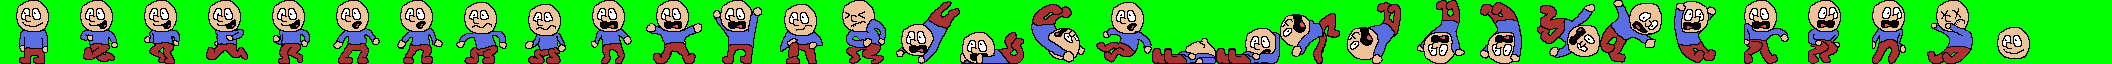
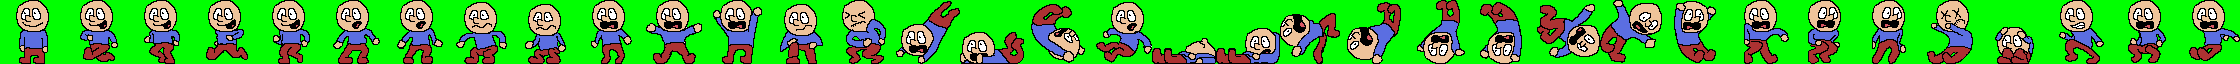
longjump!

diff --git a/src/lib/SPRITESHEETS.py b/src/lib/SPRITESHEETS.py
@@ -1,1 +1,1 @@
-SPRITESHEETS = {'redpantsguy.png': {'redpantsstand': ((0, 0), (64, 64)), 'redpantsrun0': ((64, 0), (64, 64)), 'redpantsrun2': ((192, 0), (64, 64)), 'redpantsrun1': ((128, 0), (64, 64)), 'redpantsrun3': ((256, 0), (64, 64)), 'redpantsslide0': ((320, 0), (64, 64)), 'redpantsslide1': ((384, 0), (64, 64)), 'redpantsjumpsquat0': ((448, 0), (64, 64)), 'redpantsjumpsquat1': ((512, 0), (64, 64)), 'redpantsjump0': ((576, 0), (64, 64)), 'redpantsjump1': ((640, 0), (64, 64)), 'redpantsjump2': ((704, 0), (64, 64)), 'redpantsland': ((768, 0), (64, 64)), 'redpantsdivestart': ((832, 0), (64, 64)), 'redpantsdive': ((896, 0), (64, 64)), 'redpantsdiveland': ((960, 0), (64, 64)), 'redpantsrollout': ((1024, 0), (64, 64)), 'redpantsbonk': ((1088, 0), (64, 64)), 'redpantsbonkland0': ((1152, 0), (64, 64)), 'redpantsbonkland1': ((1216, 0), (64, 64)), 'redpantsdiveflip0': ((1280, 0), (64, 64)), 'redpantsdiveflip1': ((1344, 0), (64, 64)), 'redpantsdiveflip2': ((1408, 0), (64, 64)), 'redpantsdiveflip3': ((1472, 0), (64, 64)), 'redpantsdiveflip4': ((1536, 0), (64, 64)), 'redpantsdiveflip5': ((1600, 0), (64, 64)), 'redpantsdiveflip6': ((1664, 0), (64, 64)), 'redpantswalljump0': ((1728, 0), (64, 64)), 'redpantswalljump1': ((1792, 0), (64, 64)), 'redpantswalljump2': ((1856, 0), (64, 64)), 'redpantsdead': ((1920, 0), (64, 64))}, 'actors.png': {'spike': ((0, 0), (32, 32)), 'bone0': ((32, 0), (32, 32)), 'bone1': ((64, 0), (32, 32)), 'zombie': ((96, 0), (48, 64)), 'skeleton0': ((144, 0), (48, 64)), 'zombie1': ((192, 0), (48, 64)), 'skeleton1': ((240, 0), (48, 64)), 'skeleton2': ((240, 64), (48, 64)), 'platform000': ((288, 0), (32, 32)), 'platform001': ((320, 0), (32, 32)), 'platform002': ((352, 0), (32, 32)), 'platform010': ((288, 32), (32, 32)), 'platform011': ((320, 32), (32, 32)), 'platform012': ((352, 32), (32, 32)), 'platform020': ((288, 64), (32, 32)), 'platform021': ((320, 64), (32, 32)), 'platform022': ((352, 64), (32, 32)), 'touched000': ((384, 0), (32, 32)), 'touched010': ((384, 32), (32, 32)), 'touched002': ((448, 0), (32, 32)), 'touched001': ((416, 0), (32, 32)), 'touched011': ((416, 32), (32, 32)), 'touched012': ((448, 32), (32, 32)), 'touched020': ((384, 64), (32, 32)), 'touched021': ((416, 64), (32, 32)), 'touched022': ((448, 64), (32, 32))}}
+SPRITESHEETS = {'redpantsguy.png': {'redpantsstand': ((0, 0), (64, 64)), 'redpantsrun0': ((64, 0), (64, 64)), 'redpantsrun2': ((192, 0), (64, 64)), 'redpantsrun1': ((128, 0), (64, 64)), 'redpantsrun3': ((256, 0), (64, 64)), 'redpantsslide0': ((320, 0), (64, 64)), 'redpantsslide1': ((384, 0), (64, 64)), 'redpantsjumpsquat0': ((448, 0), (64, 64)), 'redpantsjumpsquat1': ((512, 0), (64, 64)), 'redpantsjump0': ((576, 0), (64, 64)), 'redpantsjump1': ((640, 0), (64, 64)), 'redpantsjump2': ((704, 0), (64, 64)), 'redpantsland': ((768, 0), (64, 64)), 'redpantsdivestart': ((832, 0), (64, 64)), 'redpantsdive': ((896, 0), (64, 64)), 'redpantsdiveland': ((960, 0), (64, 64)), 'redpantsrollout': ((1024, 0), (64, 64)), 'redpantsbonk': ((1088, 0), (64, 64)), 'redpantsbonkland0': ((1152, 0), (64, 64)), 'redpantsbonkland1': ((1216, 0), (64, 64)), 'redpantsdiveflip0': ((1280, 0), (64, 64)), 'redpantsdiveflip1': ((1344, 0), (64, 64)), 'redpantsdiveflip2': ((1408, 0), (64, 64)), 'redpantsdiveflip3': ((1472, 0), (64, 64)), 'redpantsdiveflip4': ((1536, 0), (64, 64)), 'redpantsdiveflip5': ((1600, 0), (64, 64)), 'redpantsdiveflip6': ((1664, 0), (64, 64)), 'redpantswalljump0': ((1728, 0), (64, 64)), 'redpantswalljump1': ((1792, 0), (64, 64)), 'redpantswalljump2': ((1856, 0), (64, 64)), 'redpantsdead': ((1920, 0), (64, 64)), 'redpantscrouch': ((1984, 0), (64, 64)), 'redpantslongjumpstart': ((2048, 0), (64, 64)), 'redpantslongjump1': ((2112, 0), (64, 64)), 'redpantslongjump2': ((2176, 0), (64, 64))}, 'actors.png': {'spike': ((0, 0), (32, 32)), 'bone0': ((32, 0), (32, 32)), 'bone1': ((64, 0), (32, 32)), 'zombie': ((96, 0), (48, 64)), 'skeleton0': ((144, 0), (48, 64)), 'zombie1': ((192, 0), (48, 64)), 'skeleton1': ((240, 0), (48, 64)), 'skeleton2': ((240, 64), (48, 64)), 'platform000': ((288, 0), (32, 32)), 'platform001': ((320, 0), (32, 32)), 'platform002': ((352, 0), (32, 32)), 'platform010': ((288, 32), (32, 32)), 'platform011': ((320, 32), (32, 32)), 'platform012': ((352, 32), (32, 32)), 'platform020': ((288, 64), (32, 32)), 'platform021': ((320, 64), (32, 32)), 'platform022': ((352, 64), (32, 32)), 'touched000': ((384, 0), (32, 32)), 'touched010': ((384, 32), (32, 32)), 'touched002': ((448, 0), (32, 32)), 'touched001': ((416, 0), (32, 32)), 'touched011': ((416, 32), (32, 32)), 'touched012': ((448, 32), (32, 32)), 'touched020': ((384, 64), (32, 32)), 'touched021': ((416, 64), (32, 32)), 'touched022': ((448, 64), (32, 32))}}
